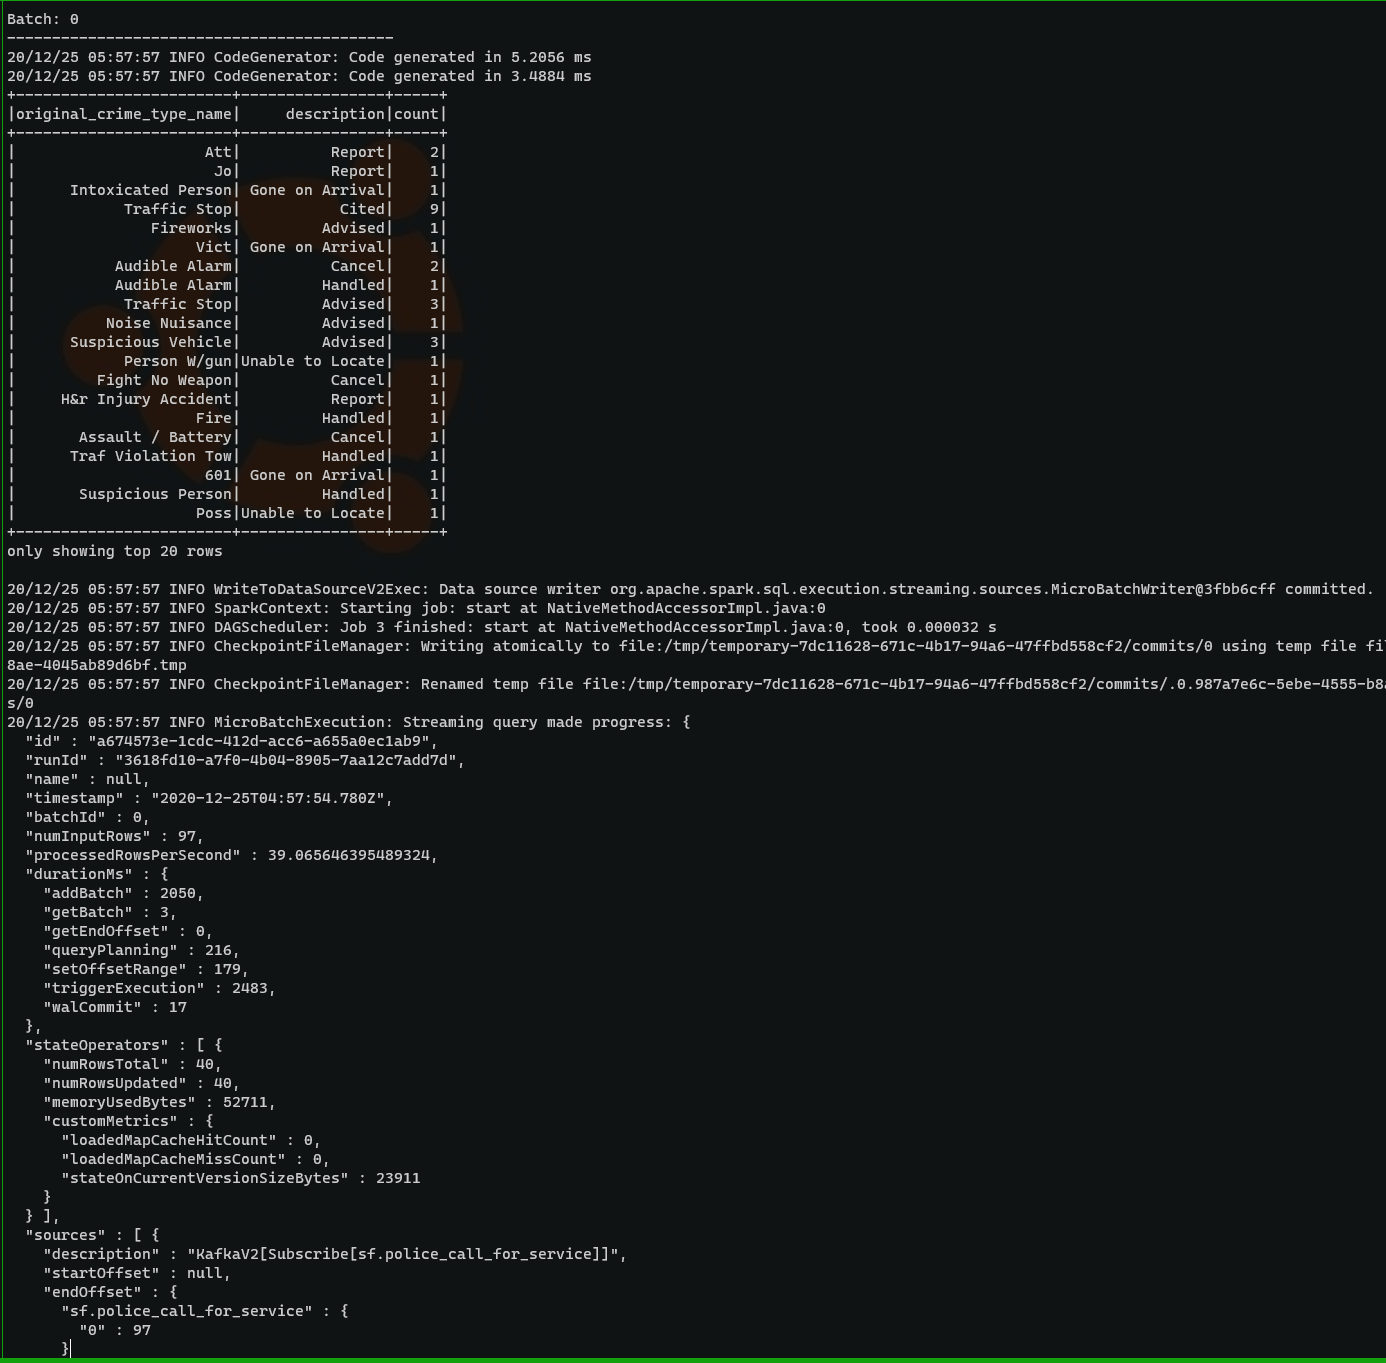
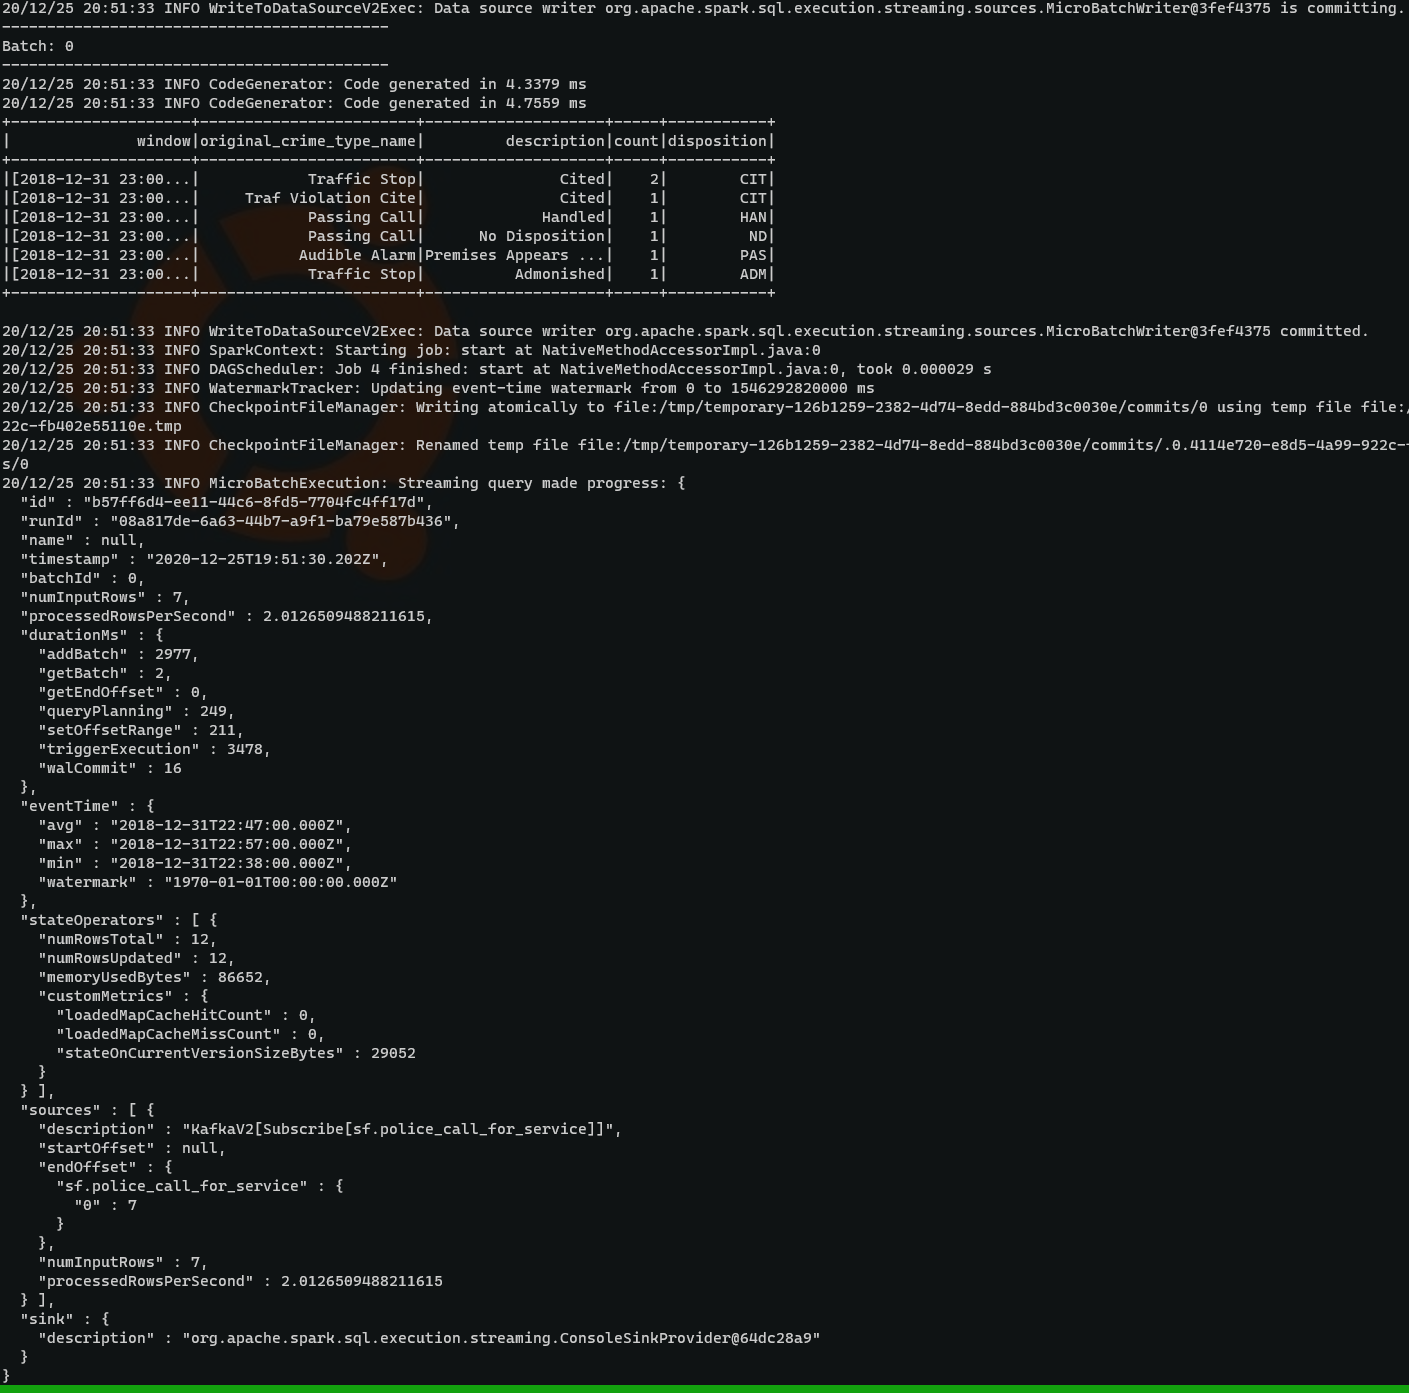
udpate queries and README.md + add spark_ui screen shot

Changed region(s): [[0.0, 0.0, 1.0, 1.0], [0.9307, 0.0, 0.9928, 0.0308], [0.4033, 0.5238, 0.4654, 0.5547]]

diff --git a/src/data_stream.py b/src/data_stream.py
@@ -6,27 +6,24 @@ import pyspark.sql.functions as psf
 
 
 # Create a schema for incoming resources (from a data sample)
-
-data_sample_dict = {
-        "crime_id": "183653746",
-        "original_crime_type_name": "Passing Call",
-        "report_date": "2018-12-31T00:00:00.000",
-        "call_date": "2018-12-31T00:00:00.000",
-        "offense_date": "2018-12-31T00:00:00.000",
-        "call_time": "23:49",
-        "call_date_time": "2018-12-31T23:49:00.000",
-        "disposition": "HAN",
-        "address": "3300 Block Of 20th Av",
-        "city": "San Francisco",
-        "state": "CA",
-        "agency_id": "1",
-        "address_type": "Common Location",
-        "common_location": "Stonestown Galleria, Sf"
-    }
-
-schema = StructType([
-    StructField(key, StringType(), True) for key in data_sample_dict
+SCHEMA = StructType([
+    # StructField(key, StringType(), True) for key in data_sample_dict
+    StructField("crime_id", StringType(), True),
+    StructField("original_crime_type_name", StringType(), True),
+    StructField("report_date", StringType(), True),
+    StructField("call_date", StringType(), True),
+    StructField("offense_date", StringType(), True),
+    StructField("call_time", StringType(), True),
+    StructField("call_date_time", StringType(), True),
+    StructField("disposition", StringType(), True),
+    StructField("address", StringType(), True),
+    StructField("city", StringType(), True),
+    StructField("state", StringType(), True),
+    StructField("agency_id", StringType(), True),
+    StructField("address_type", StringType(), True),
+    StructField("common_location", StringType(), True)
 ])
+
 
 def run_spark_job(spark):
 
@@ -37,7 +34,7 @@ def run_spark_job(spark):
         .option("subscribe", "sf.police_call_for_service")\
         .option("startingOffsets", "earliest")\
         .option("fetchOffset.numRetries", 2)\
-        .option("fetchOffset.retryIntervalMs", 1000)\
+        .option("fetchOffset.retryIntervalMs", 600)\
         .option("maxOffsetsPerTrigger", 600)\
         .load()
 
@@ -48,17 +45,22 @@ def run_spark_job(spark):
     kafka_df = df.selectExpr("CAST(value AS STRING)")
 
     service_table = kafka_df\
-        .select(psf.from_json(psf.col('value'), schema).alias("DF"))\
+        .select(psf.from_json(psf.col('value'), SCHEMA).alias("DF"))\
         .select("DF.*")
 
     # select original_crime_type_name and disposition
-    type_disposition_table = service_table.select("original_crime_type_name", "disposition") # .distinct()
+    type_disposition_table = service_table.select("original_crime_type_name", "disposition", psf.to_timestamp("call_date_time").alias("call_date_time"))
 
     # Count the number of original crime type
-    agg_df = type_disposition_table.groupBy("original_crime_type_name", "disposition").count()
+    window_size_in_minutes = 60
+    delay_in_minutes = 10
+    agg_df = type_disposition_table\
+        .withWatermark("call_date_time", f"{window_size_in_minutes+delay_in_minutes} minutes")\
+        .groupBy(psf.window(type_disposition_table.call_date_time, f"{window_size_in_minutes} minutes"), "original_crime_type_name", "disposition")\
+        .count()
 
     # # write output stream
-    # query = agg_df.writeStream.format("console").outputMode("complete").start()
+    # query = agg_df.writeStream.format("console").trigger(processingTime='5 seconds').outputMode("complete").start()
     # # attach a ProgressReporter
     # query.awaitTermination()
 
@@ -70,9 +72,10 @@ def run_spark_job(spark):
     radio_code_df = radio_code_df.withColumnRenamed("disposition_code", "disposition")
 
     # Join on disposition column
-    join_query = agg_df.join(radio_code_df, agg_df["disposition"]==radio_code_df["disposition"]).\
-        select("original_crime_type_name", "description", "count").orderBy(psf.col("count").desc()).\
-        writeStream.format("console").trigger(processingTime='5 seconds').outputMode("complete").start()
+    join_query = agg_df.join(radio_code_df.alias("radio"), agg_df["disposition"]==radio_code_df["disposition"])\
+        .select("window", "original_crime_type_name", "description", "count", "radio.disposition")\
+        .orderBy(psf.col("count").desc())\
+        .writeStream.format("console").trigger(processingTime='5 seconds').outputMode("complete").start()
     join_query.awaitTermination()
 
 

diff --git a/README.md b/README.md
@@ -43,6 +43,10 @@ Query 2:
 ![query-2](images/query_2.png)
 
 
+Spark UI:
+![spark-ui](images/spark_ui.png)
+
+
 # Answers
 
 How did changing values on the SparkSession property parameters affect the throughput and latency of the data?
